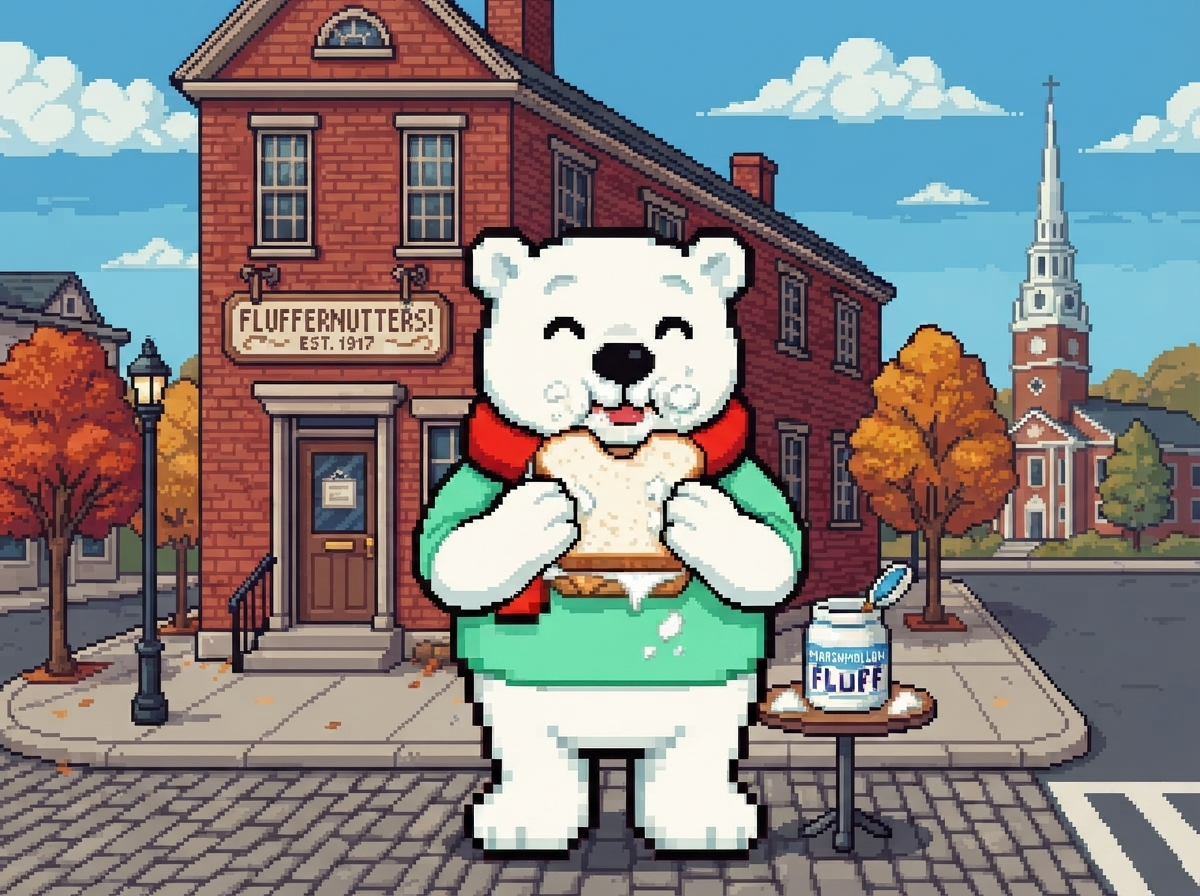
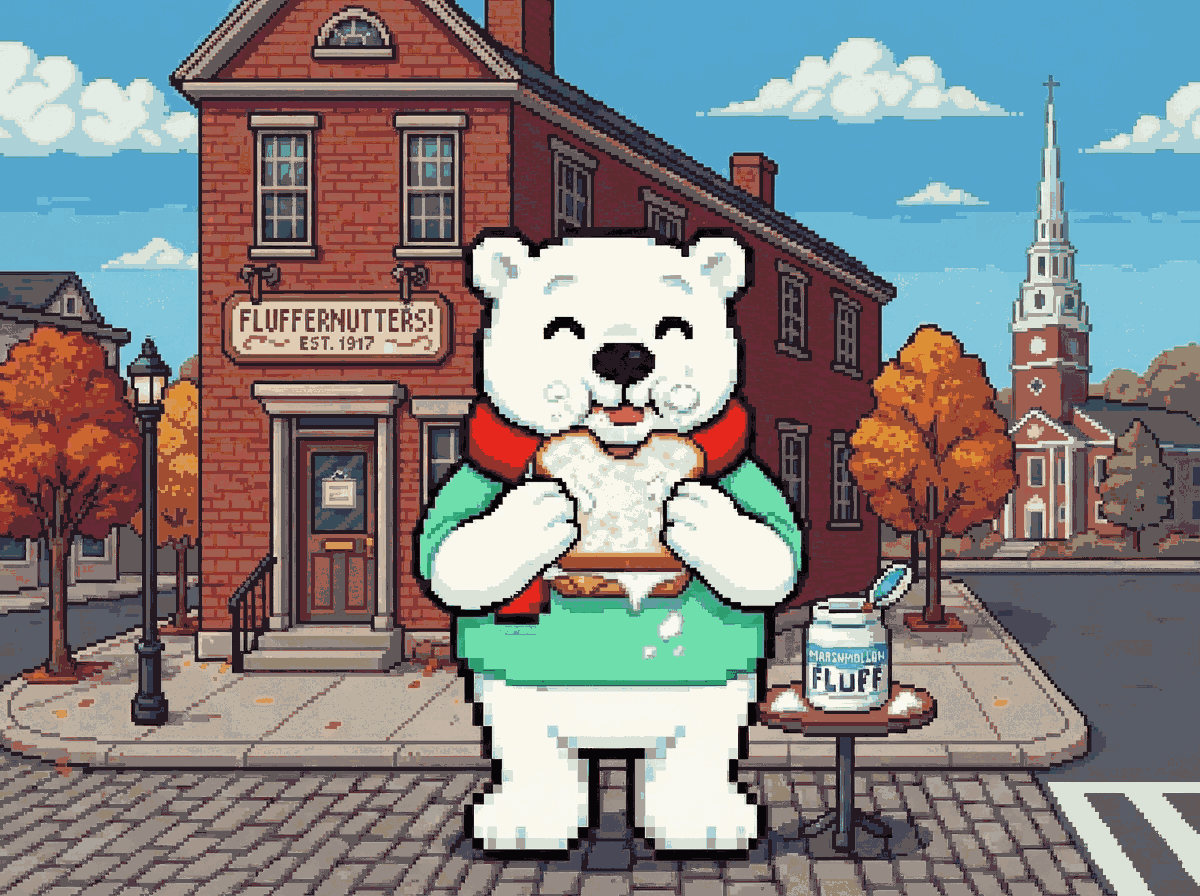
feat: atomic github commits, LLM geocoding, crisp massachusetts png, aug 16 exception

diff --git a/src/App.tsx b/src/App.tsx
@@ -23,10 +23,12 @@ function App() {
   )
   const [error, setError] = useState<string | null>(null)
 
-  const isWednesday = new Date().getDay() === 3
+  const today = new Date()
+  const isWednesday = today.getDay() === 3
+  const isAug16 = today.getMonth() === 7 && today.getDate() === 16
   const isBypass =
     new URLSearchParams(window.location.search).get('bypass') === 'newabeibutton'
-  const showNewAbeiButton = isWednesday || isBypass
+  const showNewAbeiButton = isWednesday || isBypass || isAug16
 
   useEffect(() => {
     const params = new URLSearchParams(window.location.search)

diff --git a/terraform/github_committer.py b/terraform/github_committer.py
@@ -33,60 +33,73 @@ def make_github_request(url: str, method: str, token: str, data: dict = None) ->
         print(f"[GitHub API HTTPError {e.code}] {url}: {e.reason}\nBody: {error_body}")
         raise RuntimeError(f"GitHub API Error {e.code}: {e.reason} - {error_body}") from e
 
-def upload_scene_image(owner: str, repo: str, token: str, sighting_id: str, image_b64: str):
-    image_path = f"public/scenes/{sighting_id}.png"
-    url = f"https://api.github.com/repos/{owner}/{repo}/contents/{image_path}"
+def commit_sighting_and_image(owner: str, repo: str, token: str, sighting: dict, image_b64: str):
+    base_url = f"https://api.github.com/repos/{owner}/{repo}"
     
-    clean_b64 = image_b64.split(',')[1] if ',' in image_b64 else image_b64
+    # 1. Get current commit and tree SHAs
+    ref_res = make_github_request(f"{base_url}/git/refs/heads/main", 'GET', token)
+    commit_sha = ref_res['object']['sha']
     
-    # Check if file already exists to supply sha for overwrite
-    existing_sha = None
-    try:
-        get_res = make_github_request(f"{url}?ref=main", 'GET', token)
-        existing_sha = get_res.get('sha')
-    except Exception:
-        existing_sha = None
-
-    payload = {
-        "message": f"feat: add scene image for {sighting_id} via Lambda #2",
-        "content": clean_b64,
-        "branch": "main"
-    }
-    if existing_sha:
-        payload["sha"] = existing_sha
-
-    make_github_request(url, 'PUT', token, payload)
-    print(f"[Info] Uploaded scene image '{image_path}' to GitHub")
-
-def update_locations_json(owner: str, repo: str, token: str, sighting: dict):
-    get_url = f"https://api.github.com/repos/{owner}/{repo}/contents/public/locations.json?ref=main"
-    put_url = f"https://api.github.com/repos/{owner}/{repo}/contents/public/locations.json"
+    commit_res = make_github_request(f"{base_url}/git/commits/{commit_sha}", 'GET', token)
+    tree_sha = commit_res['tree']['sha']
     
-    # 1. Fetch current locations.json from latest main branch HEAD
-    loc_file = make_github_request(get_url, 'GET', token)
-    current_sha = loc_file['sha']
+    # 2. Get current locations.json
+    loc_url = f"{base_url}/contents/public/locations.json?ref=main"
+    loc_file = make_github_request(loc_url, 'GET', token)
     current_json = json.loads(base64.b64decode(loc_file['content']).decode('utf-8'))
-
-    # 2. Update existing entry or append new sighting
+    
+    # Update locations
     existing_index = next((i for i, s in enumerate(current_json) if s.get('id') == sighting['id']), None)
     if existing_index is not None:
         current_json[existing_index] = sighting
-        print(f"[Info] Updated existing sighting entry '{sighting['id']}' in locations.json")
     else:
         current_json.append(sighting)
-        print(f"[Info] Appended new sighting entry '{sighting['id']}' (total {len(current_json)} items) to locations.json")
-
-    # 3. Commit updated locations.json
-    updated_b64 = base64.b64encode(json.dumps(current_json, indent=2).encode('utf-8')).decode('utf-8')
-    payload = {
-        "message": f"feat: add new sighting {sighting.get('title')} via Lambda #2",
-        "content": updated_b64,
-        "sha": current_sha,
-        "branch": "main"
-    }
-
-    make_github_request(put_url, 'PUT', token, payload)
-    print(f"[Info] Successfully committed public/locations.json on GitHub for sighting '{sighting['id']}'")
+        
+    updated_locations = json.dumps(current_json, indent=2)
+    
+    # 3. Create blob for the image
+    clean_b64 = image_b64.split(',')[1] if ',' in image_b64 else image_b64
+    blob_res = make_github_request(f"{base_url}/git/blobs", 'POST', token, {
+        "content": clean_b64,
+        "encoding": "base64"
+    })
+    image_sha = blob_res['sha']
+    
+    # 4. Create new tree
+    image_path = f"public/scenes/{sighting['id']}.png"
+    tree_res = make_github_request(f"{base_url}/git/trees", 'POST', token, {
+        "base_tree": tree_sha,
+        "tree": [
+            {
+                "path": "public/locations.json",
+                "mode": "100644",
+                "type": "blob",
+                "content": updated_locations
+            },
+            {
+                "path": image_path,
+                "mode": "100644",
+                "type": "blob",
+                "sha": image_sha
+            }
+        ]
+    })
+    new_tree_sha = tree_res['sha']
+    
+    # 5. Create new commit
+    new_commit_res = make_github_request(f"{base_url}/git/commits", 'POST', token, {
+        "message": f"feat: add sighting & scene for {sighting['id']} via single commit",
+        "tree": new_tree_sha,
+        "parents": [commit_sha]
+    })
+    new_commit_sha = new_commit_res['sha']
+    
+    # 6. Update reference
+    make_github_request(f"{base_url}/git/refs/heads/main", 'PATCH', token, {
+        "sha": new_commit_sha
+    })
+    
+    print(f"[Info] Successfully committed public/locations.json and {image_path} on GitHub for sighting '{sighting['id']}' atomically")
 
 def lambda_handler(event, context):
     print(f"[Info] GitHub Committer Lambda #2 started with event: {json.dumps(event)}")
@@ -107,11 +120,8 @@ def lambda_handler(event, context):
                 'body': json.dumps({'error': err_msg})
             }
 
-        # 1. Upload PNG image
-        upload_scene_image(owner, repo, github_token, sighting['id'], image_b64)
-
-        # 2. Append/Update locations.json
-        update_locations_json(owner, repo, github_token, sighting)
+        # 1. Atomic Commit
+        commit_sighting_and_image(owner, repo, github_token, sighting, image_b64)
 
         print("[Success] All GitHub files committed successfully!")
         return {

diff --git a/terraform/lambda_function.py b/terraform/lambda_function.py
@@ -108,7 +108,10 @@ def generate_gemini_image(api_key: str, prompt: str, ref_part=None) -> str:
         try:
             response = client.models.generate_content(
                 model=model_name,
-                contents=contents
+                contents=contents,
+                config=types.GenerateContentConfig(
+                    response_mime_type="image/png"
+                )
             )
 
             found_image = False
@@ -173,7 +176,10 @@ def generate_gemini_image(api_key: str, prompt: str, ref_part=None) -> str:
     try:
         fb_response = client.models.generate_content(
             model=fallback_model,
-            contents=[detailed_prompt]
+            contents=[detailed_prompt],
+            config=types.GenerateContentConfig(
+                response_mime_type="image/png"
+            )
         )
         if hasattr(fb_response, 'parts') and fb_response.parts:
             for part in fb_response.parts:
@@ -192,17 +198,37 @@ def generate_gemini_image(api_key: str, prompt: str, ref_part=None) -> str:
     summary_errors = "\n".join(f"• {m}: {r}" for m, r in rejected_models)
     raise ValueError(f"All image generation models failed. Last error details:\n{summary_errors}")
 
-def generate_coordinates(prompt: str):
-    """Generate distinct global coordinates deterministically based on prompt string."""
+def generate_coordinates(api_key: str, prompt: str):
+    """Generate distinct global coordinates based on prompt string using Gemini."""
+    try:
+        client = genai.Client(api_key=api_key)
+        response = client.models.generate_content(
+            model="gemini-2.5-flash",
+            contents=f"Extract the real-world latitude and longitude for the location mentioned in this prompt: '{prompt}'. If no obvious location is found, pick a default plausible one (e.g. London). Return ONLY valid JSON with keys 'lat' (float) and 'lng' (float).",
+            config=types.GenerateContentConfig(
+                response_mime_type="application/json"
+            )
+        )
+        if response and hasattr(response, 'text') and response.text:
+            data = json.loads(response.text)
+            lat = round(float(data.get('lat', 51.5072)), 4)
+            lng = round(float(data.get('lng', -0.1276)), 4)
+            print(f"[Info] Generated coordinates from LLM: lat={lat}, lng={lng}")
+            return lat, lng
+    except Exception as e:
+        print(f"[Warning] Failed to generate coordinates via Gemini: {str(e)}")
+
+    # Fallback to deterministic random if LLM fails
     seed = sum(ord(c) * (i + 1) for i, c in enumerate(prompt))
     rng = random.Random(seed)
     lat = round(rng.uniform(-40.0, 68.0), 4)
     lng = round(rng.uniform(-130.0, 140.0), 4)
+    print(f"[Info] Generated fallback coordinates: lat={lat}, lng={lng}")
     return lat, lng
 
-def build_sighting_metadata(prompt: str) -> dict:
+def build_sighting_metadata(api_key: str, prompt: str) -> dict:
     clean_id = "".join(c if c.isalnum() else "-" for c in prompt.lower()).strip("-")[:30]
-    lat, lng = generate_coordinates(prompt)
+    lat, lng = generate_coordinates(api_key, prompt)
     return {
         "id": clean_id,
         "title": prompt.strip().title()[:30],
@@ -274,7 +300,7 @@ def lambda_handler(event, context):
         generated_b64 = generate_gemini_image(api_key, enhanced_prompt, ref_part)
 
         # 4. Create Sighting Metadata & Trigger GitHub Committer
-        sighting = build_sighting_metadata(raw_prompt)
+        sighting = build_sighting_metadata(api_key, raw_prompt)
         trigger_github_committer(sighting, generated_b64, github_token)
 
         # 5. Return Immediate Detailed Success
